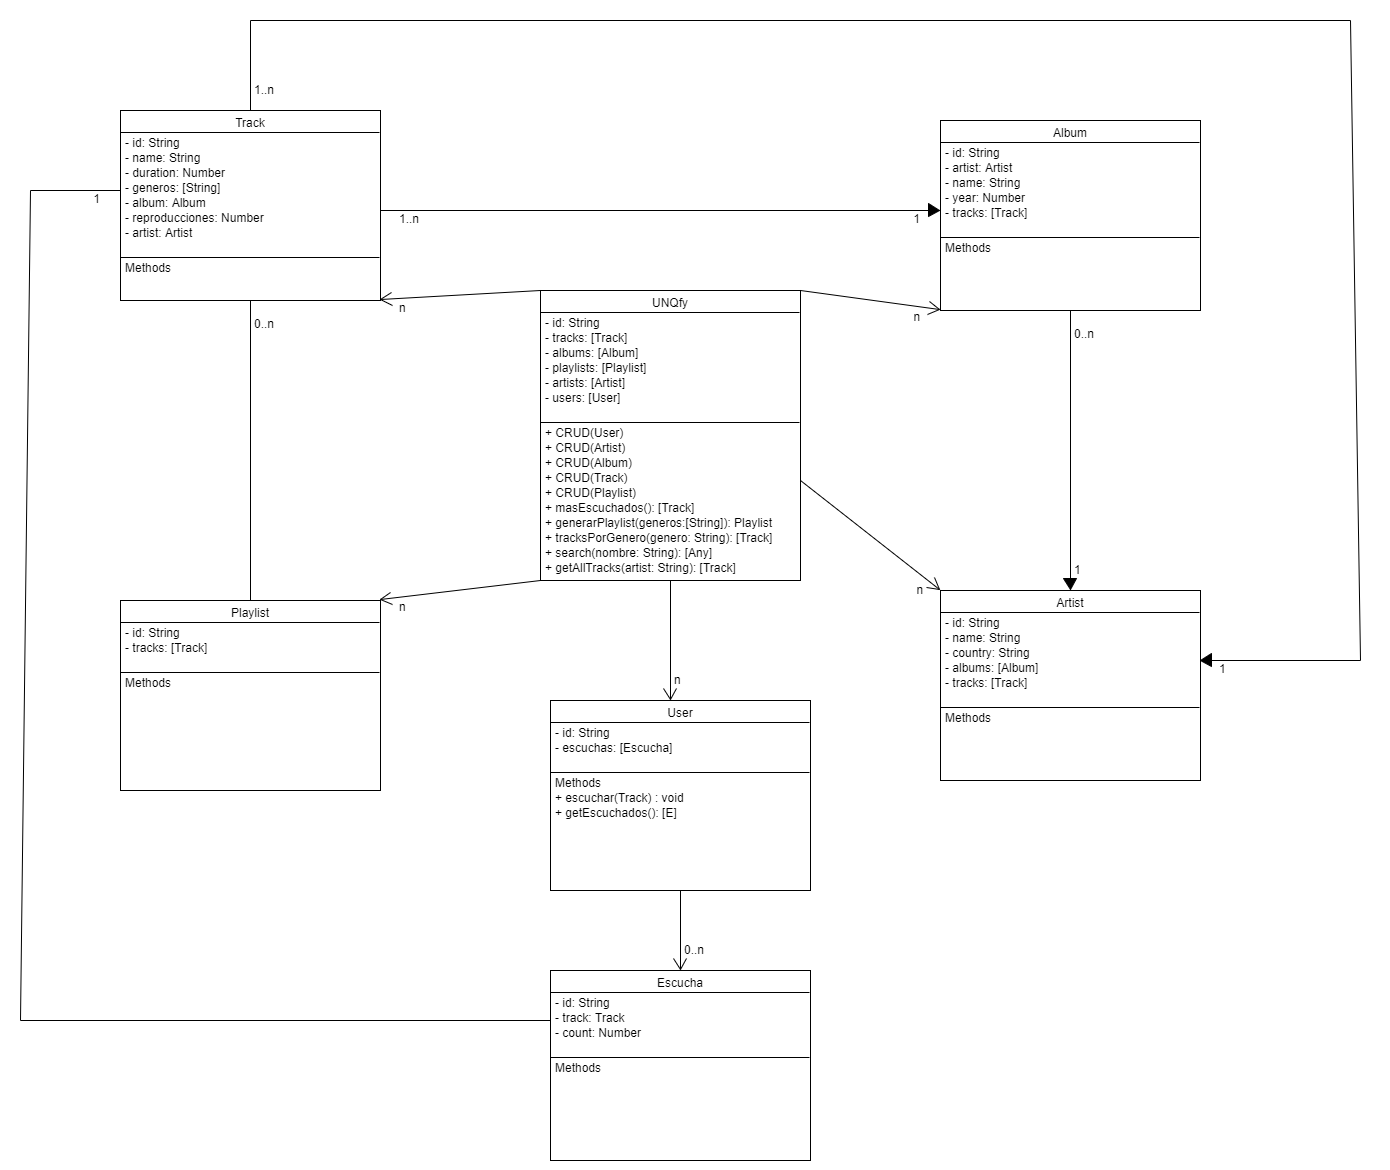
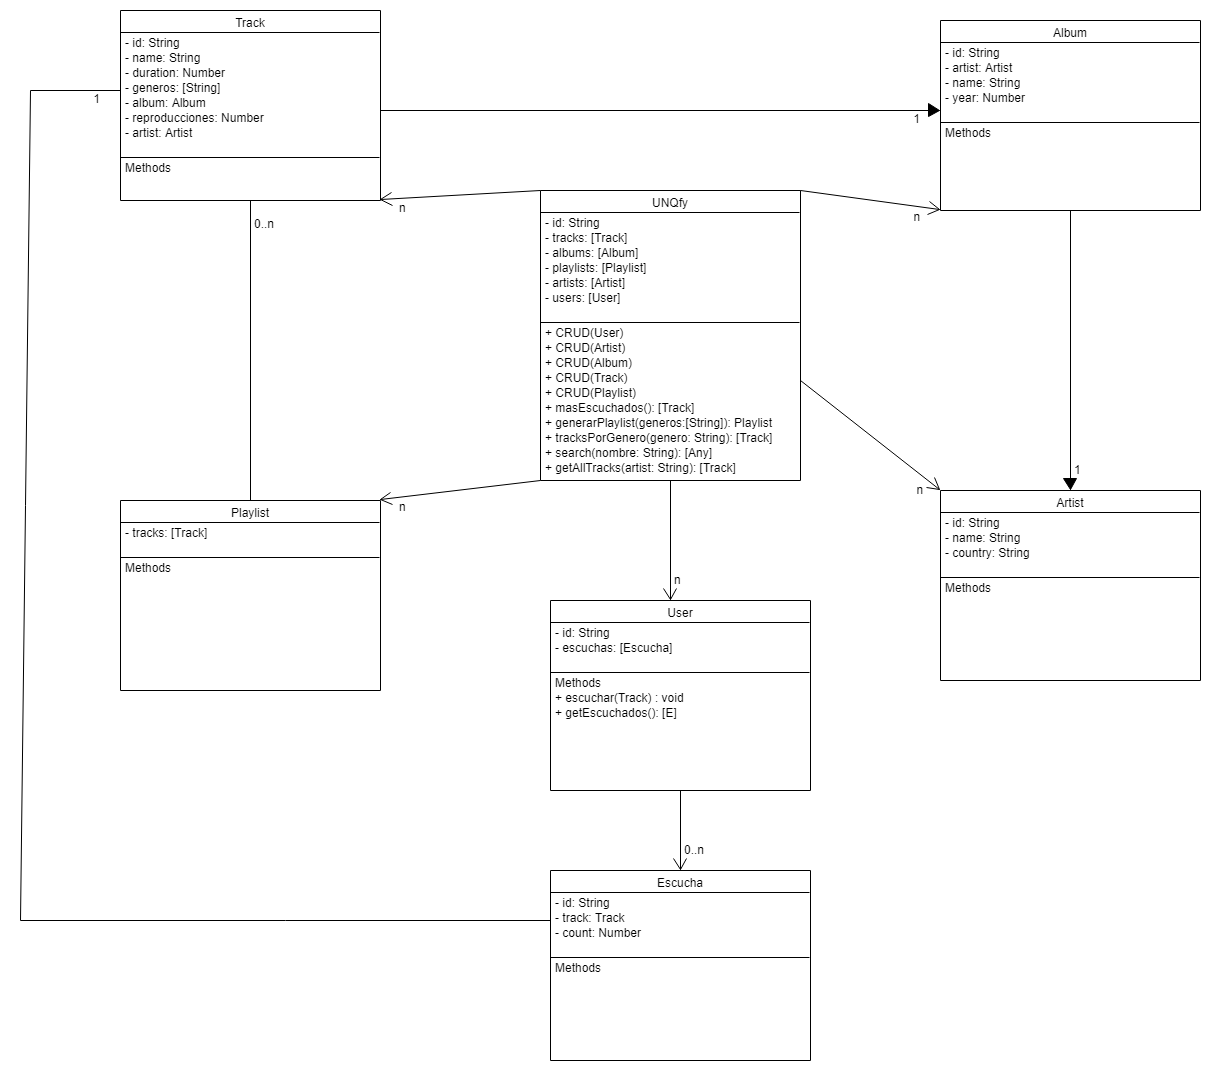
Se termino el addTrack. Se modifico el diagrama UML. Se agrego tranformacion de tipos al agregar entidades

diff --git a/src/utils/consoleManager.ts b/src/utils/consoleManager.ts
@@ -4,11 +4,13 @@ import BadParamError from '../exceptions/badParamError';
 import Album from '../model/album';
 import Artist from '../model/artist';
 import UNQfy from '../unqfy';
+import Track from '../model/track';
 
-const COMMANDS: string[] = ['addArtist', 'addAlbum'];
+const COMMANDS: string[] = ['addArtist', 'addAlbum', 'addTrack'];
 const VALID_PARAMS: any = {
   addArtist: ['name', 'country'],
   addAlbum: ['artist', 'name', 'year'],
+  addTrack: ['name', 'duration', 'genres', 'album'],
 }
 
 export default class ConsoleManager {
@@ -70,16 +72,35 @@ class Command {
         break;
       case 'addAlbum':
         let artistId: string = this.properties.artist;
-        let album: Album = this.unqfy.addAlbum(artistId, this.properties);
+
+        let year: number = parseInt(this.properties.year);
+        let albumData: {name: string, year: number} = { ...this.properties, year };
+
+        let album: Album = this.unqfy.addAlbum(artistId, albumData);
         console.log('- Se agrego un nuevo album: ', album);
-    
+        break;
+      case 'addTrack':
+        let albumId: string = this.properties.album;
+
+        let genres: string[] = this.properties.genres.split(',').map((genre: string) => genre.trim());
+        let duration: number = parseInt(this.properties.duration);
+        let trackData: { name: string; duration: number; genres: string[]; } = { ...this.properties, genres, duration };
+
+        let track: Track = this.unqfy.addTrack(albumId, trackData);
+        console.log('- Se agrego un nuevo track: ', track);
+        break;
       default:
         break;
     };
   }
 
   validParams(operation: string, properties: object): boolean {
-    let valid: boolean = Object.keys(properties).reduce((accum, current) => VALID_PARAMS[operation].includes(current) && accum, true);
-    return valid;
+    // All parameters are correct
+    let valid: boolean = Object.keys(properties).reduce((accum: boolean, current: string) => VALID_PARAMS[operation].includes(current) && accum, true);
+
+    // All parameters exist
+    let necessary: boolean = VALID_PARAMS[operation].reduce((accum: boolean, current: string) => Object.keys(properties).includes(current) && accum, true);
+
+    return valid && necessary;
   }
 }

diff --git a/src/unqfy.ts b/src/unqfy.ts
@@ -38,20 +38,16 @@ export default class UNQfy {
     return album;
   }
 
-
-  // trackData: objeto JS con los datos necesarios para crear un track
-  //   trackData.name (string)
-  //   trackData.duration (number)
-  //   trackData.genres (lista de strings)
-  // retorna: el nuevo track creado
   addTrack(albumId: string, trackData: {name: string, duration: number, genres: string[]}): Track {
-  /* Crea un track y lo agrega al album con id albumId.
-  El objeto track creado debe tener (al menos):
-      - una propiedad name (string),
-      - una propiedad duration (number),
-      - una propiedad genres (lista de strings)
-  */
-    return (new Track());
+    let albumIds: string[] = this.albums.map(album => album.getId());
+    if(!albumIds.includes(albumId)) throw new EntityNotFoundError('Album', albumId);
+
+    let { name, duration, genres } = trackData;
+    let track: Track = new Track(albumId, name, duration, genres);
+
+    this.tracks.push(track);
+
+    return track;
   }
 
   getArtistById(id: string): Artist {

diff --git a/src/model/track.ts b/src/model/track.ts
@@ -1,3 +1,19 @@
+import { generateId } from '../utils/utils';
+
 export default class Track {
-  constructor() {}
+  private id: string;
+  private name: string;
+  private album: string;
+  private duration: number;
+  private genres: string[];
+
+  constructor(album: string, name: string, duration: number, genres: string[]) {
+    this.id = generateId();
+    this.name = name;
+    this.album = album;
+    this.duration = duration;
+    this.genres = genres;
+  }
+
+  public getId() { return this.id }
 }
